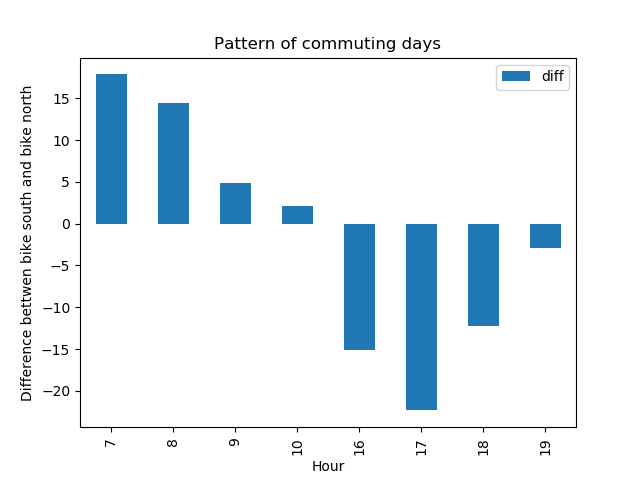
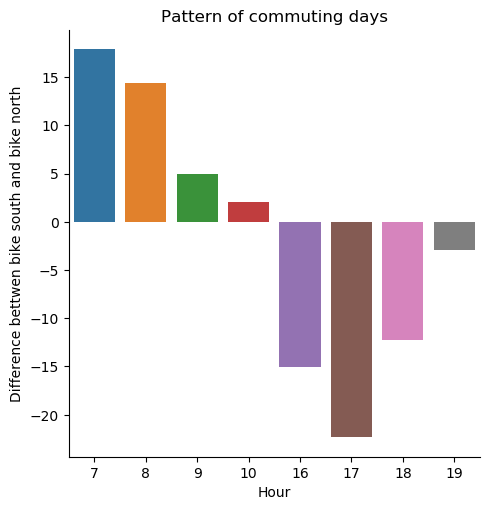
What you changed

Changed region(s): [[0.0, 0.0938, 0.9816, 1.0], [0.3374, 0.0, 0.7975, 0.125], [0.7669, 0.125, 0.9202, 0.1875]]

diff --git a/commuters.py b/commuters.py
@@ -12,12 +12,14 @@ git push
 
 
 def commute_pattern(df):
-    #is_0 = df['DAY_OF_WEEK'] == 0
-    #is_6 = df['DAY_OF_WEEK'] == 6
-    morning_data = df[(df['HOUR']>= 7) & (df['HOUR']<= 10)& (df['DAY_OF_WEEK']>0)& (df['DAY_OF_WEEK']<6)]
-    #morning_data = morning_data[is_0| is_6]
-    evening_data = df[(df['HOUR']>= 16) & (df['HOUR']<= 19) & (df['DAY_OF_WEEK']>0)& (df['DAY_OF_WEEK']<6)]
-    #evening_data = evening_data[is_0| is_6]
+    is_0 = df['DAY_OF_WEEK'] == 0
+    is_6 = df['DAY_OF_WEEK'] == 6
+    morning_data = df[(df['HOUR']>= 7) & (df['HOUR']<= 10)]
+    morning_data = morning_data[is_0| is_6]
+    evening_data = df[(df['HOUR']>= 16) & (df['HOUR']<= 19)]
+    evening_data = evening_data[is_0| is_6]
+    # morning_data = df[(df['HOUR']>= 7) & (df['HOUR']<= 10)& (df['DAY_OF_WEEK']>0)& (df['DAY_OF_WEEK']<6)]
+    # evening_data = df[(df['HOUR']>= 16) & (df['HOUR']<= 19) & (df['DAY_OF_WEEK']>0)& (df['DAY_OF_WEEK']<6)]
     morning_indiv= morning_data.groupby(['YEAR','MONTH','DAY'])
     evening_indiv = evening_data.groupby(['YEAR','MONTH','DAY'])
     morning_diff = morning_indiv['Bike South'].sum() - morning_indiv['Bike North'].sum()
@@ -32,8 +34,6 @@ def commute_pattern(df):
             morning_list.append(0)
     morning_list = pd.Series(morning_list,name = 'Pattern')
     sm_morning_list = pd.Series(sm_morning_list, name = 'Morning Diff')
-    #new_morning_diff = pd.concat([sm_morning_list,morning_list],axis = 1)
-
     evening_list = []
     sm_evening_list = []
     for i in evening_diff:
@@ -44,7 +44,6 @@ def commute_pattern(df):
             evening_list.append(0)
     evening_list = pd.Series(evening_list,name = 'Pattern')
     sm_evening_list = pd.Series(sm_evening_list, name = 'Evening Diff')
-    #new_evening_diff = pd.concat([sm_evening_list,evening_list],axis = 1)
     count = 0
     for i in range(len(morning_list)):
         if morning_list[i] == 1:
@@ -60,11 +59,11 @@ def plot_pattern(df):
     df = df[(morning_data | evening_data) & days_of_week]
     df['diff'] = df.loc[:, 'Bike South'] - df.loc[:, 'Bike North']
     filtered_df = df.groupby(['HOUR'], as_index=False).mean()
-    filtered_df.plot(x='HOUR', y='diff', color = 'b', kind='bar')
+    sns.catplot(x='HOUR', y='diff', data = filtered_df, kind='bar')
     plt.title("Pattern of commuting days")
     plt.xlabel('Hour')
     plt.ylabel('Difference bettwen bike south and bike north')
-    plt.savefig('plots/test.png')
+    plt.savefig('plots/Commuter_Pattern.png',bbox_inches='tight')
 
 def main():
     dg = DataGetter()
